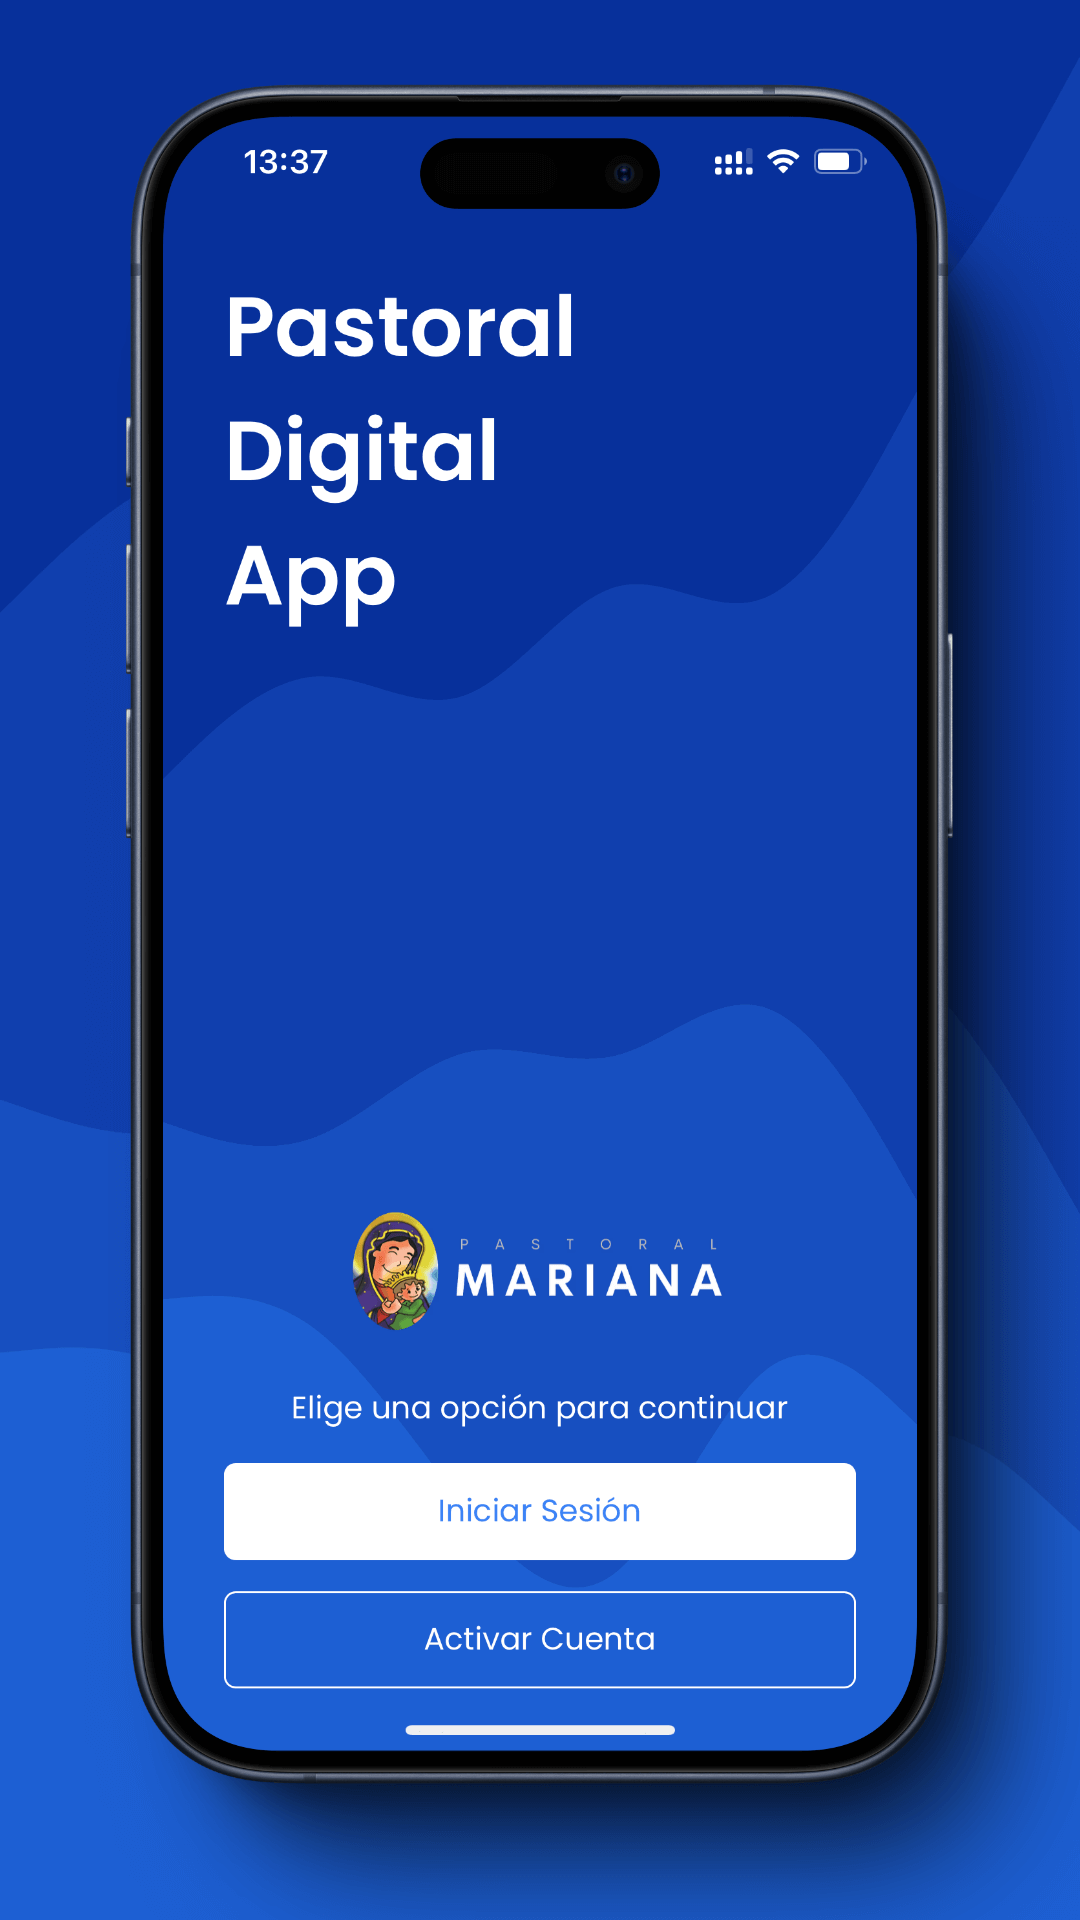
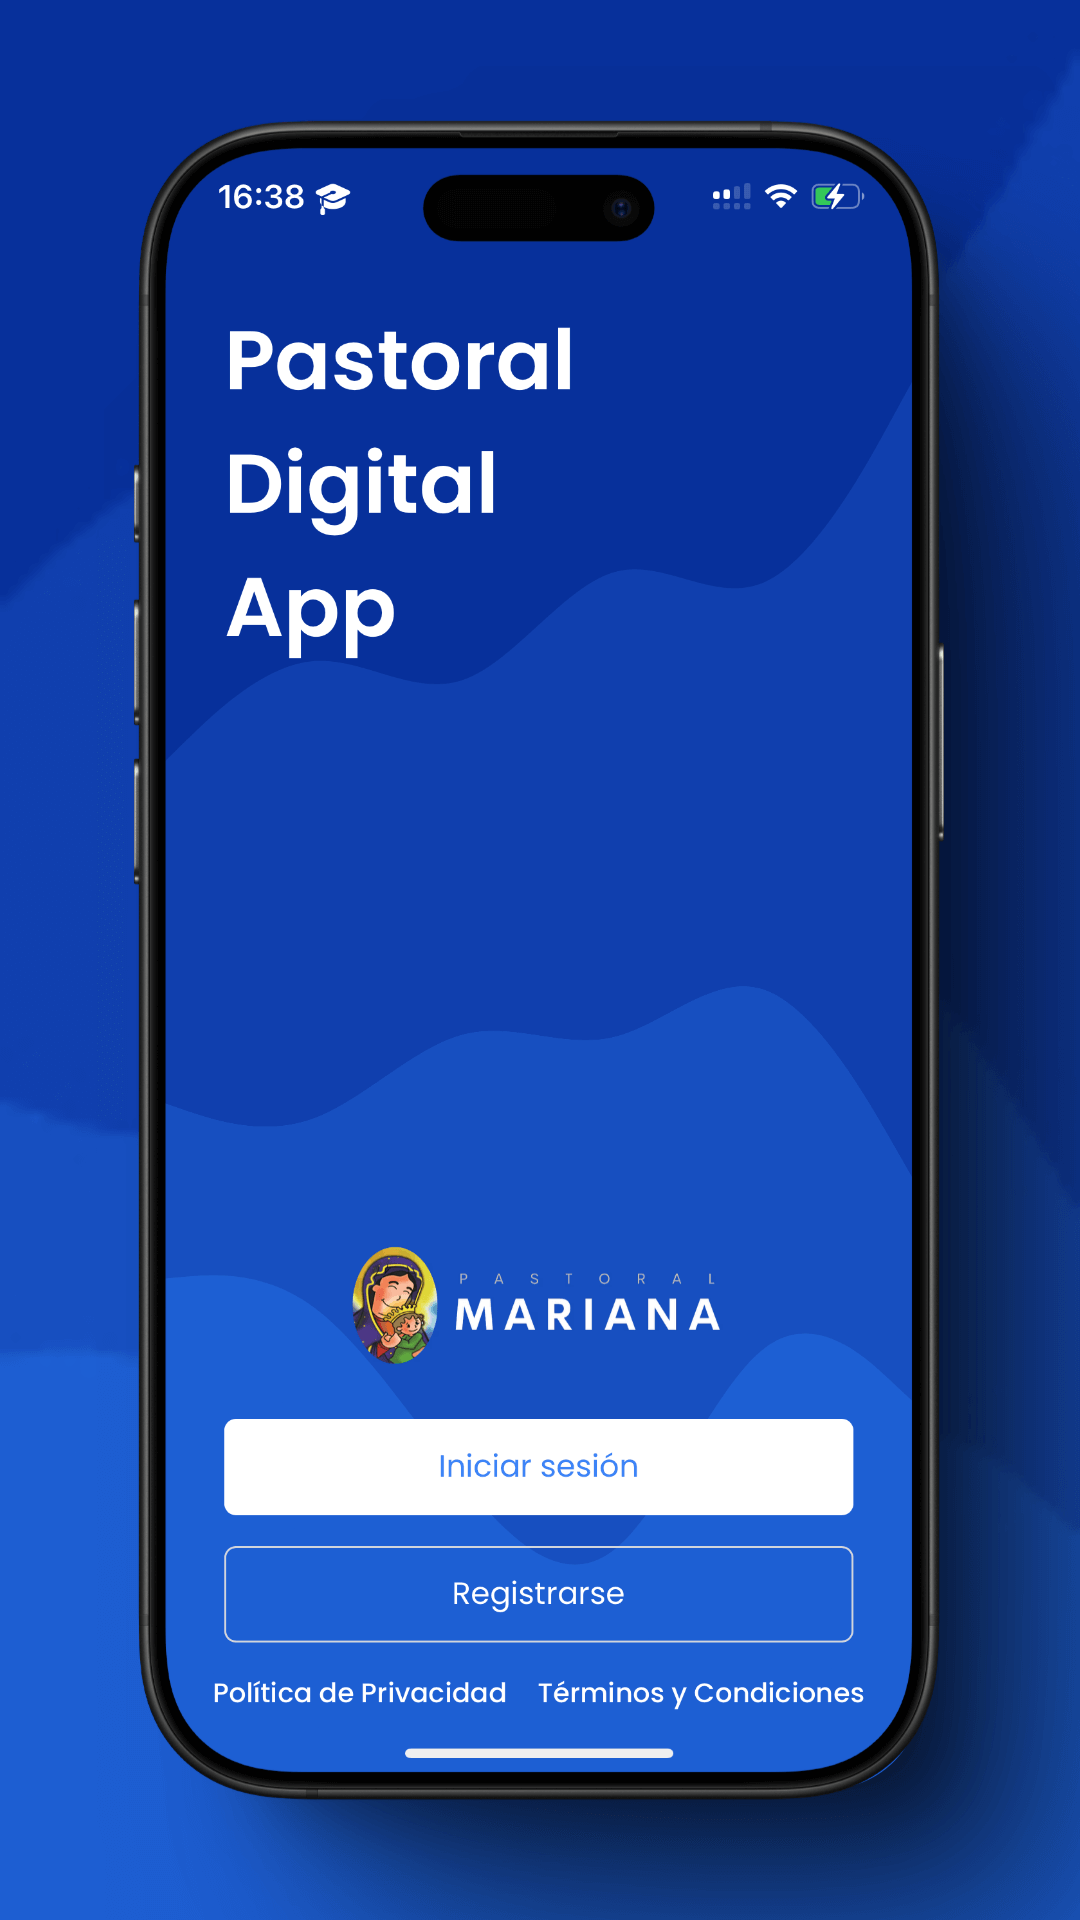
feat: Add new mobile screenshot and update manifest for improved visuals

Changed region(s): [[0.0917, 0.0312, 1.0, 1.0], [0.2139, 0.1562, 0.55, 0.3438]]

diff --git a/app/manifest.ts b/app/manifest.ts
@@ -56,6 +56,12 @@ export default function manifest() {
         form_factor: 'narrow',
       },
       {
+        src: '/screenshots/mobile-4.png',
+        sizes: '1080x1920',
+        type: 'image/png',
+        form_factor: 'narrow',
+      },
+      {
         src: '/screenshots/desktop-1.png',
         sizes: '1920x1218',
         type: 'image/png',
